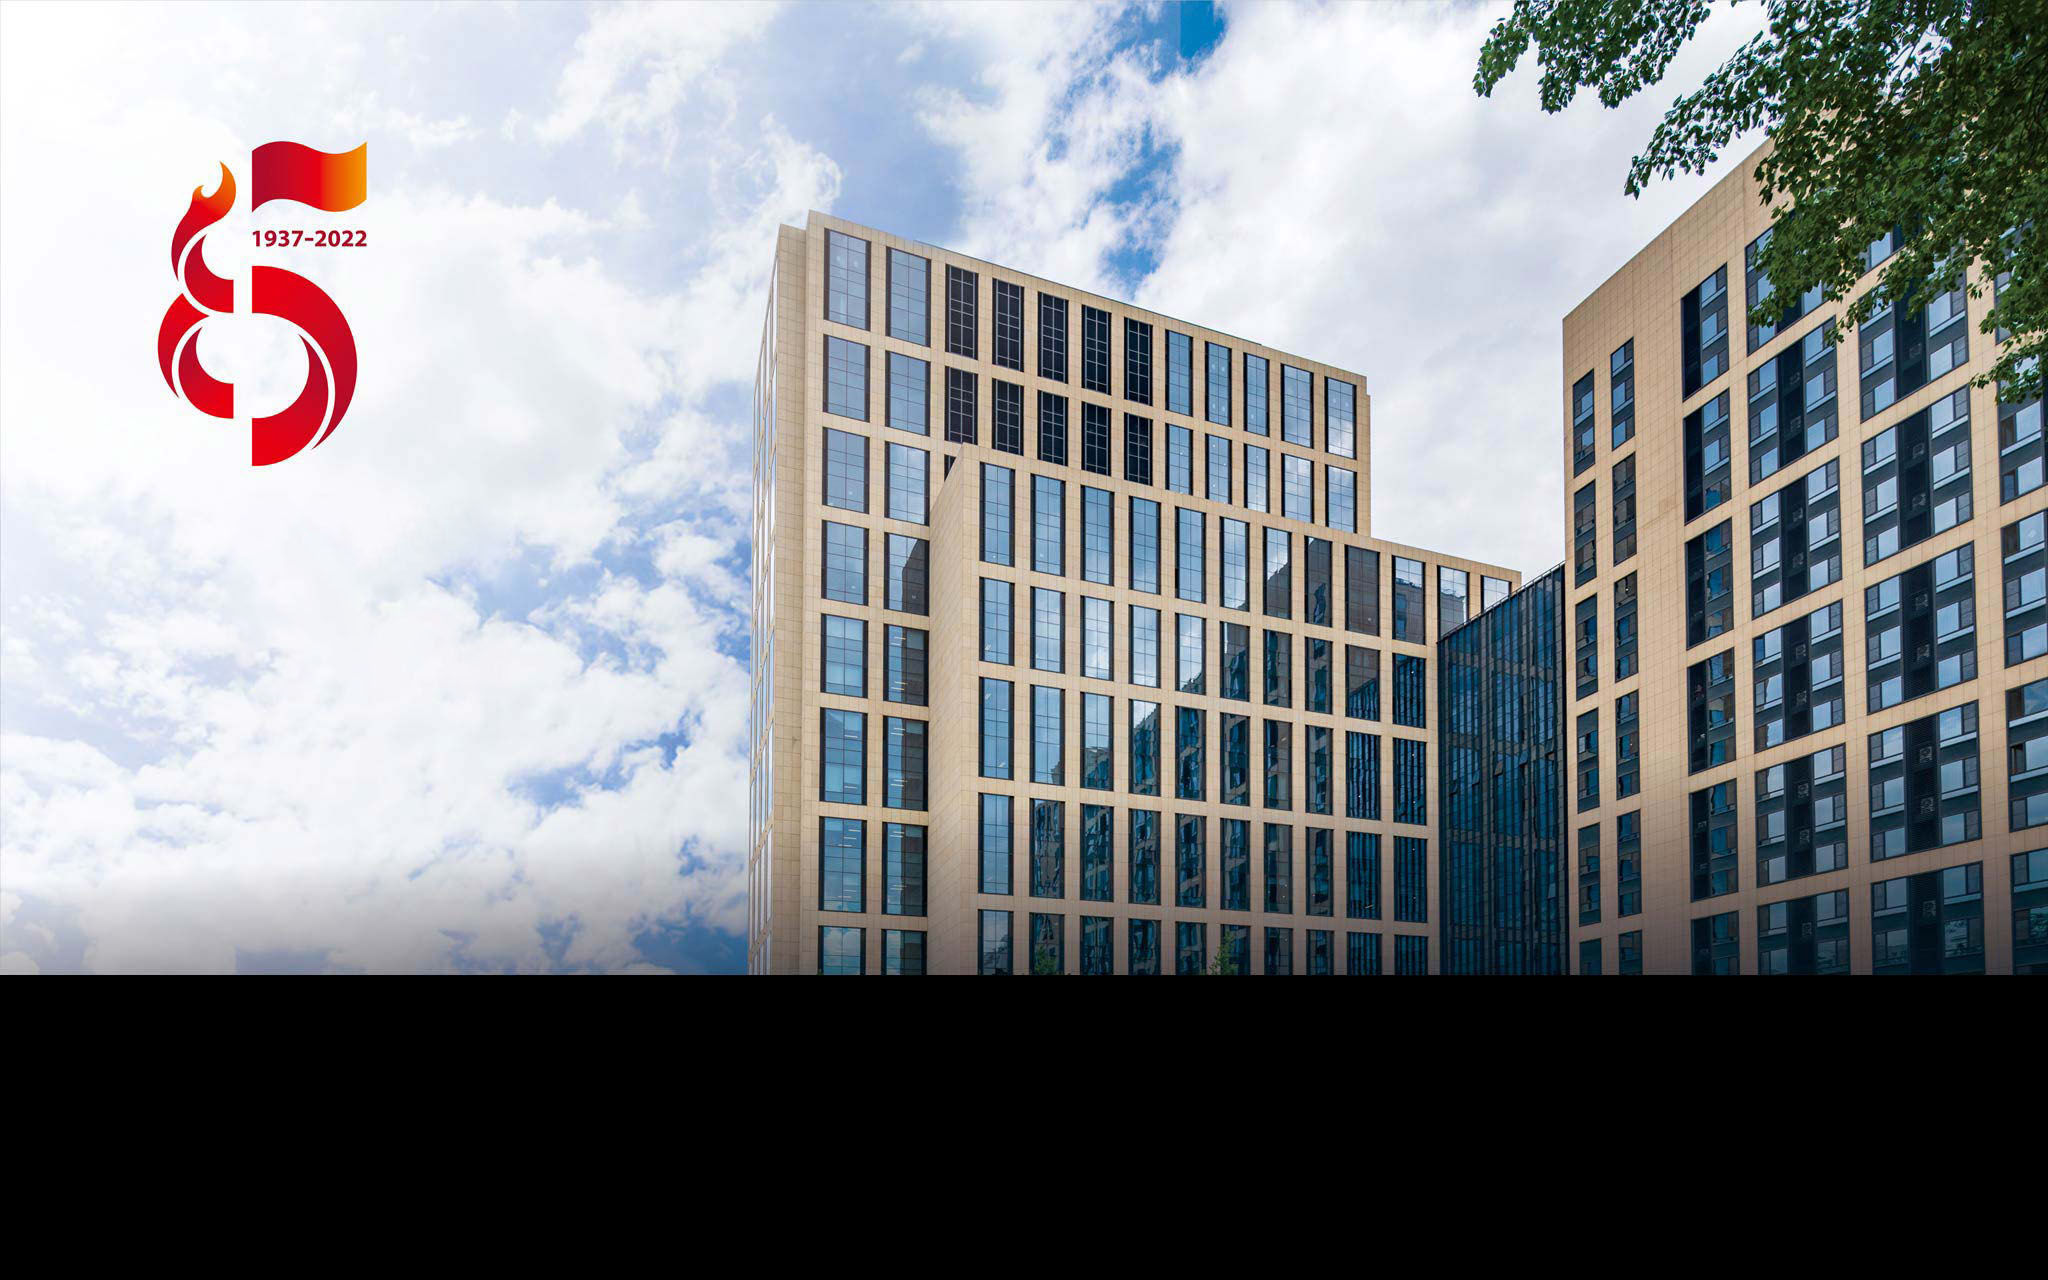
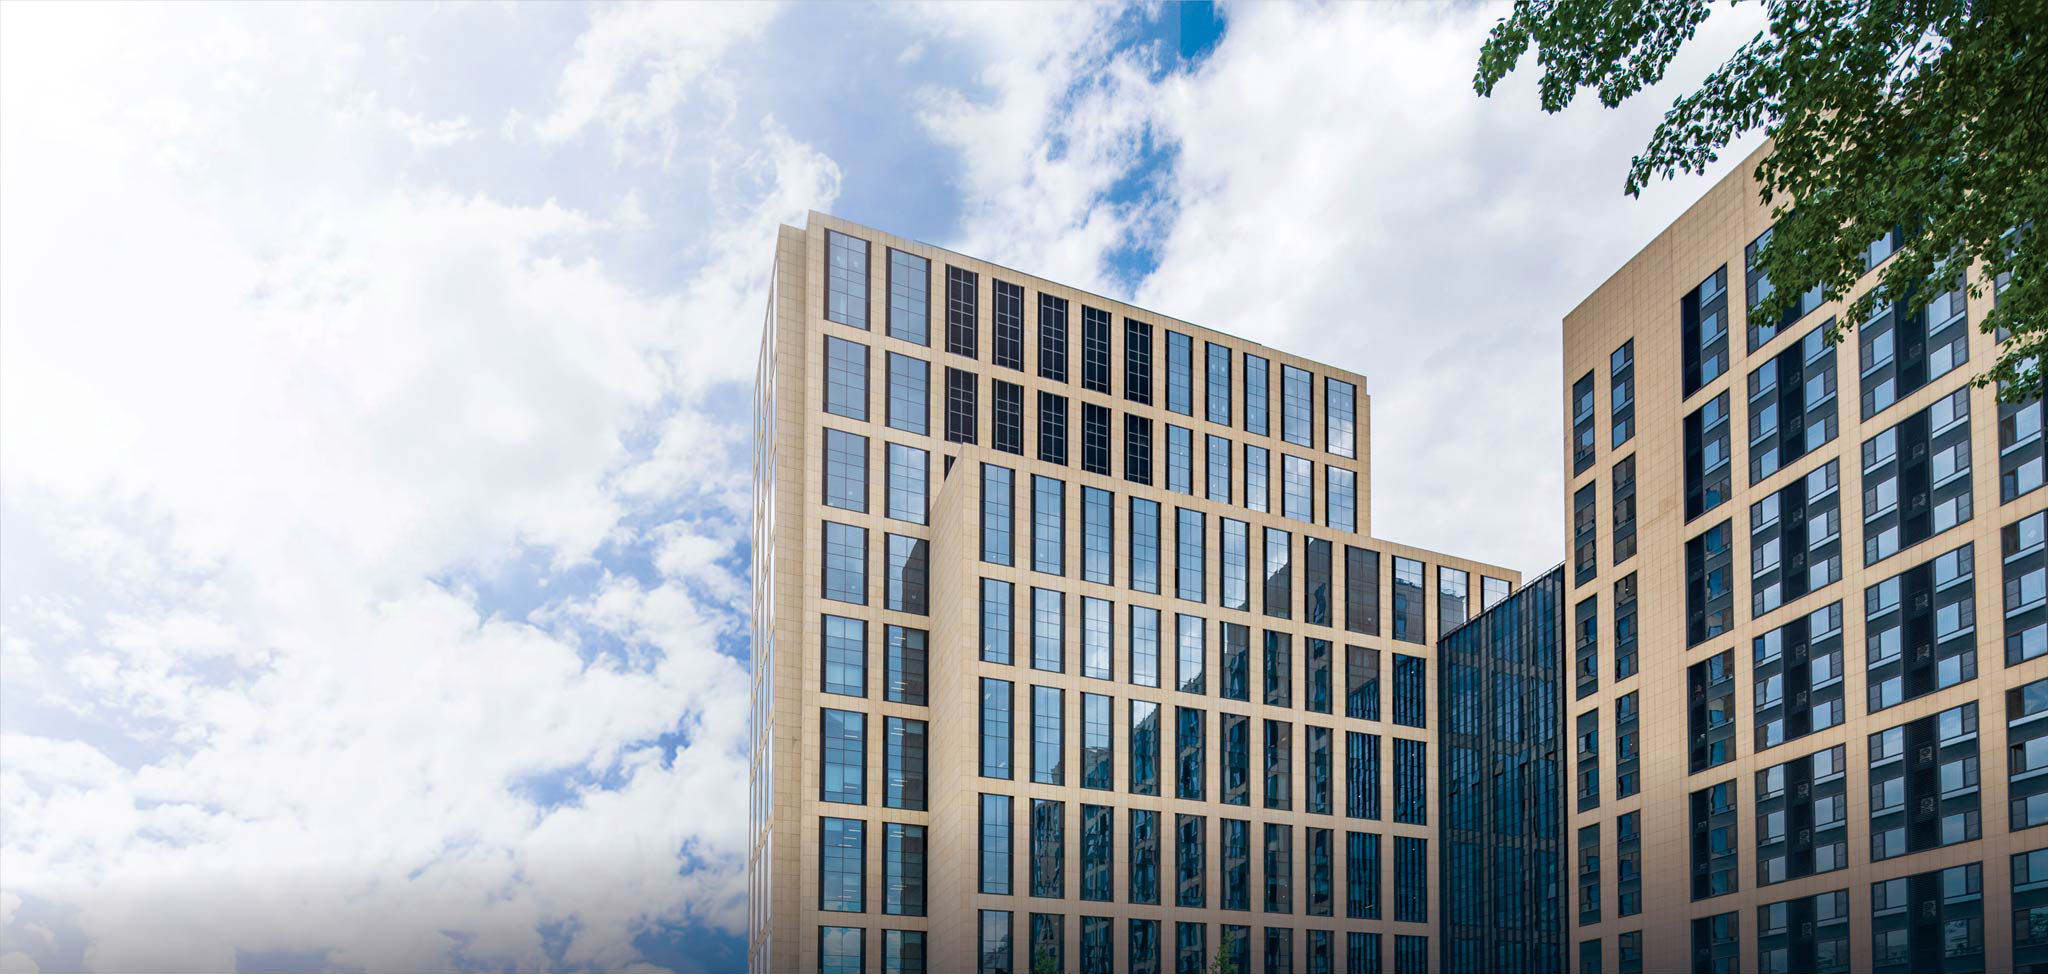
asdf
asdf

diff --git a/renmin/renmin.html b/renmin/renmin.html
@@ -155,17 +155,33 @@
                                         <span>개교85주년</span>
                                     </div>
                                 </div>
+
+                                <!-- slide2, newspaper -->
                                 <div class="slide slide2">
+                                    <span></span>
+                                    <div class="date">
+                                        <span class="datee"></span>
+                                        <span class="datee"></span>
+                                        <span class="datee"></span>
+                                    </div>
+                                    <div class="daily">
+                                        <div class="nlogo">
+                                            <img src="./img/Renmin-University-of-China-logo.png" alt="ruc logo">
+                                        </div>
+                                        <span>DAILY NEWS</span>
+                                    </div>
+                                </div>
+
+                                <!-- slide3 -->
+                                <div class="slide slide3">
                                     <div class="txt3 txt">
-                                        <span>
+                                        <!-- <span>
                                             중국인민대학(Renmin University of China)은 1937년에 중국 공산당이 정식적으로 설립한 첫 번째 신형 대학이다. 
                                         </span>
                                         <span>
                                             인문 사회과학을 주로 종합적 연구성을 띈 중국의 중점대학이다. 교육부 직속이고, 교육부와 북경시가 같이 지은 학교이다.
-                                        </span>
+                                        </span> -->
                                     </div>
-                                </div>
-                                <div class="slide slide3">
                                     <div class="txt4 txt">
                                         <span>
                                             중국교우회 (中国校友会网)<br>

diff --git a/renmin/css/renmin.css b/renmin/css/renmin.css
@@ -459,20 +459,64 @@ body {
   font-size: 2.2rem;
 }
 
+/* slide2 */
 .slide2{
-    /* background: url(../img/ruc_bg_507.jpg) no-repeat center/cover; */
-    background-image: linear-gradient( to right, rgba(0, 0, 0, 0), rgba(0, 0, 0, 0.753) ),url(../img/building.jpg);
-    background-repeat: no-repeat;
-    background-position: top;
-    background-size: cover;
+  background: url(../img/newspaper.jpg);
+}
+
+.slide2 .date{
+  position: absolute;
+  width: 75%;
+  border-bottom: 2px solid black;
+  text-align: right;
+  top: 1vh;
+  left: 50%;
+  transform: translateX(-50%);
+}
+
+.daily{
+  text-align: center;
+  position: relative;
+  top: 3vh;
+}
+
+.daily .nlogo{
+  position: absolute;
+  display: inline;
+  left: 13%;
+  top: 1vh;
 
 }
+
+.daily .nlogo img{
+  width: 8rem;
+  padding: 0;
+}
+
+.daily span{
+  font-weight: bold;
+  font-size: 10rem;
+}
+
+
+
+
+
+
+
+
 .slide3{
     /* background: url(../img/ruc_bg_510.jpg) no-repeat center/cover; */
-    background-image: linear-gradient( rgba(0, 0, 0, 0.5), rgba(0, 0, 0, 0.5) ), url(../img/ruc_bg_506.jpg);
+    /* background-image: linear-gradient( rgba(0, 0, 0, 0.5), rgba(0, 0, 0, 0.5) ), url(../img/ruc_bg_506.jpg);
     background-repeat: no-repeat;
     background-position: top;
-    background-size: cover;
+    background-size: cover; */
+
+        /* background: url(../img/ruc_bg_507.jpg) no-repeat center/cover; */
+        background-image: linear-gradient( to right, rgba(0, 0, 0, 0), rgba(0, 0, 0, 0.753) ),url(../img/building.png);
+        background-repeat: no-repeat;
+        background-position: top;
+        background-size: cover;
 }
 
 .txt3{
@@ -529,6 +573,9 @@ body {
   display: flex;
   flex-direction: column;
   justify-content: space-around;
+}
+.slide4 .cir:hover{
+  opacity: 1;
 }
 
 .cir img{

diff --git a/renmin/js/renmin.js b/renmin/js/renmin.js
@@ -50,3 +50,18 @@ function copy(that){
     inp.remove();
     alert("Copied")
     }
+
+// date
+$(document).ready(function(){
+    var now = new Date();
+    let datee = ".datee"
+
+    var year=now.getFullYear();//연도
+    $(datee).eq(0).text(year+"."); 
+
+    var month=now.getMonth()+1;//월
+    $(datee).eq(1).text(month+".");
+
+    var date=now.getDate();//일
+    $(datee).eq(2).text(date);
+  });
